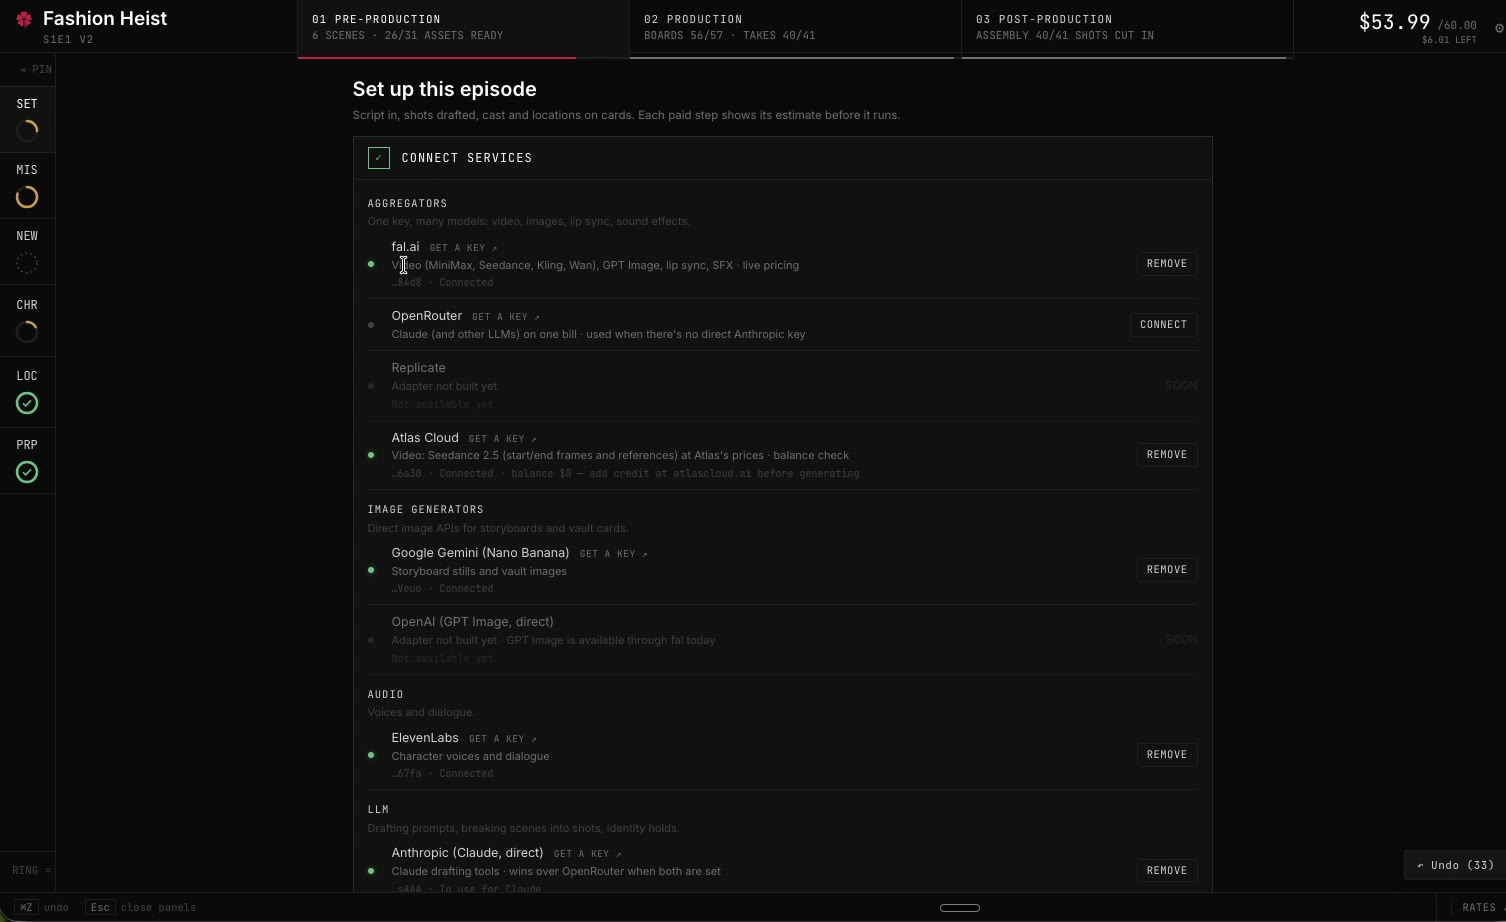
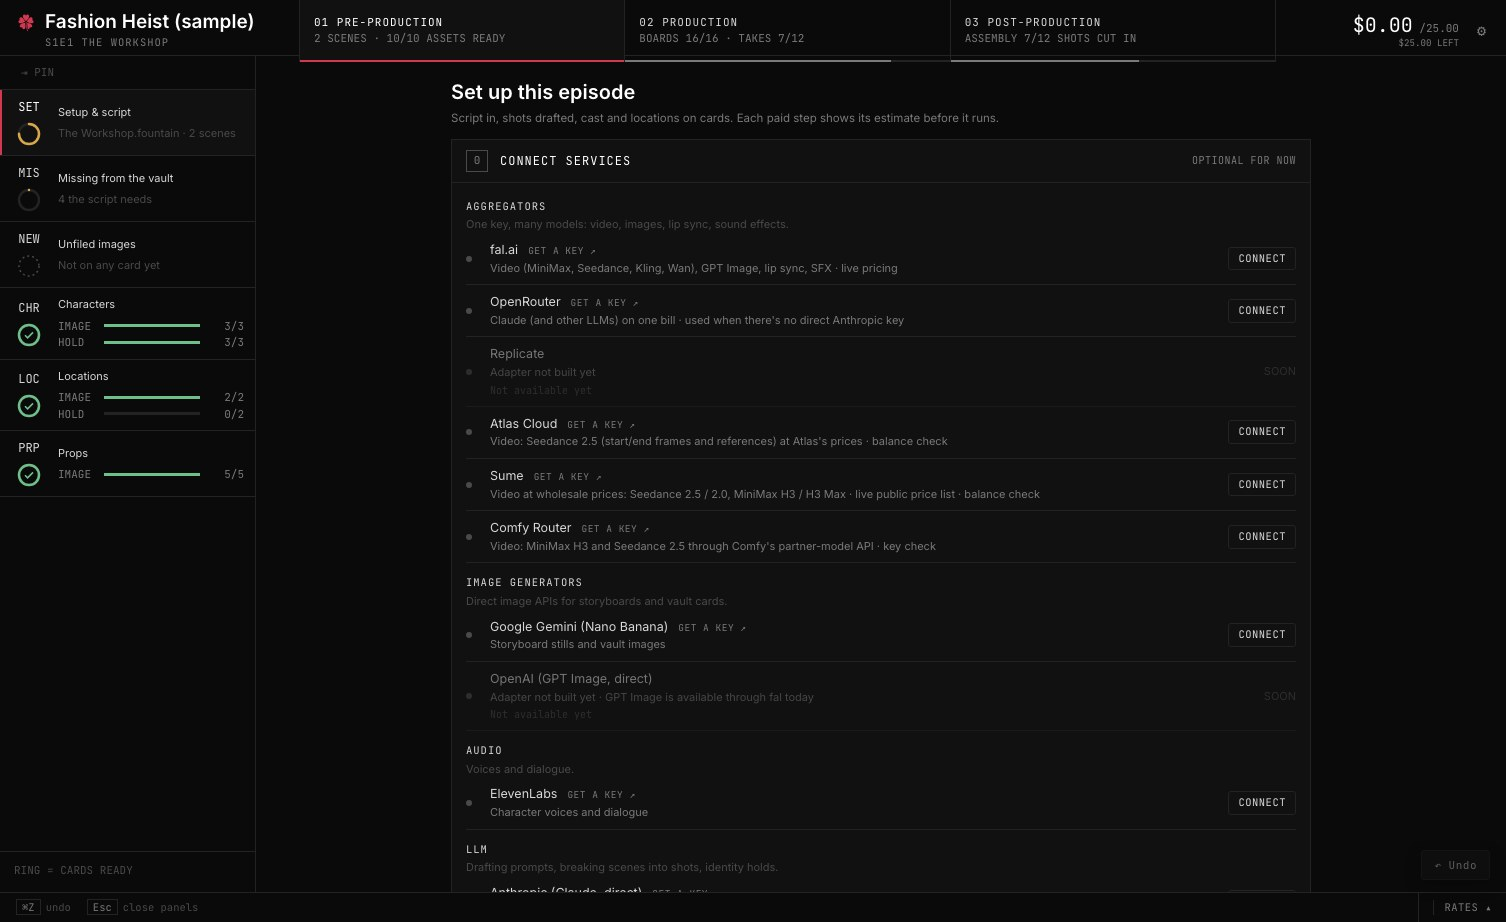
Upscale on Atlas and Sume with a priced service dropdown; Connections screenshot now lists Sume and Comfy

diff --git a/web/app.js b/web/app.js
@@ -3908,7 +3908,7 @@ function lipsyncPanel(v, onClose) {
   modeSel.title = "What to do when the audio and the take differ in length (sync.so's own modes)";
   const driverSel = mk([["fal", "fal (paid)"], ["mock", "mock (free rehearsal)"]]);
   const g = el("div", "grid g2");
-  g.append(labeled("Audio line", audioSel), labeled("Model", modelSel), labeled("If lengths differ", modeSel), labeled("Driver", driverSel));
+  g.append(labeled("Audio line", audioSel), labeled("Model", modelSel), labeled("If lengths differ", modeSel), labeled("Service", driverSel));
   box.append(g);
 
   const info = el("div", "mini"); info.style.margin = "6px 0";
@@ -4006,14 +4006,19 @@ function upscalePanel(v, onClose) {
   const kept = tt ? trimSpans(tt, full) : null;
   const hasTrim = !!kept && kept.length > 0 && !isWholeTake(kept, full);
   const mk = (opts) => { const s = document.createElement("select"); opts.forEach(([val, txt]) => { const o = document.createElement("option"); o.value = val; o.textContent = txt; s.append(o); }); return s; };
+  // One entry per upscale MODEL; the services that sell it (fal, Atlas, Sume) are the Driver
+  // choices, each with its price for this take.
   const models = GRAMMAR.upscaleModels || [];
-  const modelSel = mk(models.map((m) => [m.id, m.label]));
+  const families = models.filter((m, i) => models.findIndex((x) => x.family === m.family) === i);
+  const VIA_UP = { fal: "fal", atlas: "Atlas", sume: "Sume" };
+  const modelSel = mk(families.map((m) => [m.family, m.label]));
   const spanSel = mk(hasTrim
     ? [["trim", `Only the part used in the cut (${+spansDuration(kept).toFixed(2)}s${kept.length > 1 ? `, ${kept.length} pieces joined` : ""})`], ["whole", `The whole take (${+full.toFixed(2)}s)`]]
     : [["whole", `The whole take (${+full.toFixed(2)}s)`]]);
-  const driverSel = mk([["fal", "fal (paid)"], ["mock", "mock (free rehearsal)"]]);
+  const driverSel = mk([]);
+  let routeChosen = false; // once you pick a service by hand, a model change keeps it if it can
   const g = el("div", "grid g2");
-  g.append(labeled("Model", modelSel), labeled("Upscale", spanSel), labeled("To", Object.assign(el("div", "mini"), { textContent: "1080p (matched to the take's shape)" })), labeled("Driver", driverSel));
+  g.append(labeled("Model", modelSel), labeled("Upscale", spanSel), labeled("To", Object.assign(el("div", "mini"), { textContent: "1080p (matched to the take's shape)" })), labeled("Service", driverSel));
   box.append(g);
 
   const note = el("div", "mini"); note.style.margin = "6px 0";
@@ -4028,20 +4033,48 @@ function upscalePanel(v, onClose) {
 
   const refresh = async () => {
     go.disabled = true; quoted = null; info.textContent = "Pricing…";
-    const m = models.find((x) => x.id === modelSel.value);
-    note.textContent = m ? m.note : "";
+    const fam = models.filter((x) => x.family === modelSel.value);
+    const useTrim = spanSel.value === "trim";
     try {
-      quoted = await post("/api/episode/upscale/quote", { dir: EP.dir, versionId: v.id, modelId: modelSel.value, useTrim: spanSel.value === "trim" });
+      const qs = await Promise.all(fam.map((r) => post("/api/episode/upscale/quote", { dir: EP.dir, versionId: v.id, modelId: r.id, useTrim }).catch(() => null)));
+      // Rebuild the service list: cheapest connected first, each with its price.
+      const keep = driverSel.value;
+      const order = fam.map((r, i) => ({ r, q: qs[i], ready: viaReady(r.via) })).sort((a, b) => (b.ready - a.ready) || ((a.q ? a.q.totalUSD : 1e9) - (b.q ? b.q.totalUSD : 1e9)));
+      driverSel.innerHTML = "";
+      order.forEach(({ r, q, ready }) => {
+        const o = document.createElement("option"); o.value = r.id;
+        o.textContent = `${VIA_UP[r.via] || r.via} — ${q ? `$${q.totalUSD.toFixed(q.totalUSD < 1 ? 3 : 2)}${q.confidence === "exact" || q.confidence === "measured" ? "" : " est."}` : "price unavailable"}${ready ? "" : " (not connected)"}`;
+        driverSel.append(o);
+      });
+      const mo = document.createElement("option"); mo.value = "mock"; mo.textContent = "mock (free rehearsal)"; driverSel.append(mo);
+      driverSel.value = routeChosen && [...driverSel.options].some((o) => o.value === keep) ? keep : order[0].r.id;
+      const row = driverSel.value === "mock" ? fam[0] : fam.find((r) => r.id === driverSel.value);
+      quoted = driverSel.value === "mock" ? qs[0] : qs[fam.indexOf(row)];
+      note.textContent = row ? row.note : "";
+      if (!quoted) throw new Error("This route could not be priced.");
       info.textContent = `Priced on ${quoted.seconds}s: $${quoted.totalUSD.toFixed(2)} (${quoted.modelLabel}, ${quoted.confidence}). Watch the result before selecting it.`;
       go.textContent = `Upscale (~$${quoted.totalUSD.toFixed(2)})`;
       go.disabled = false;
     } catch (e) { info.textContent = e.message; }
   };
-  modelSel.onchange = spanSel.onchange = refresh;
+  modelSel.onchange = () => { routeChosen = false; refresh(); };
+  spanSel.onchange = refresh;
+  driverSel.onchange = () => {
+    routeChosen = true;
+    const fam = models.filter((x) => x.family === modelSel.value);
+    const row = fam.find((r) => r.id === driverSel.value) || fam[0];
+    note.textContent = row.note;
+    post("/api/episode/upscale/quote", { dir: EP.dir, versionId: v.id, modelId: row.id, useTrim: spanSel.value === "trim" }).then((q) => {
+      quoted = q;
+      info.textContent = `Priced on ${q.seconds}s: $${q.totalUSD.toFixed(2)} (${q.modelLabel}, ${q.confidence}). Watch the result before selecting it.`;
+      go.textContent = `Upscale (~$${q.totalUSD.toFixed(2)})`;
+    }).catch((e) => { info.textContent = e.message; });
+  };
 
   go.onclick = async () => {
     if (!quoted) return;
     const isMock = driverSel.value === "mock";
+    const modelId = isMock ? models.find((x) => x.family === modelSel.value).id : driverSel.value;
     const msg = `Upscale "${v.modelLabel}" to 1080p?\n\n` +
       `${quoted.modelLabel} · ${quoted.seconds}s · ${isMock ? "MOCK driver — no real spend" : `~$${quoted.totalUSD.toFixed(2)} (charged to this episode's budget)`}\n` +
       `Creates a NEW take; the original is untouched. A paid take can't be undone away.`;
@@ -4049,7 +4082,7 @@ function upscalePanel(v, onClose) {
     go.disabled = true;
     try {
       await post("/api/episode/upscale", {
-        dir: EP.dir, versionId: v.id, modelId: modelSel.value, useTrim: spanSel.value === "trim", driver: driverSel.value,
+        dir: EP.dir, versionId: v.id, modelId, useTrim: spanSel.value === "trim", driver: isMock ? "mock" : undefined,
         confirmedUSD: quoted.needsConfirmation ? quoted.totalUSD : undefined,
       });
       flashNote("Upscale queued — the new take appears in the Version tray when it finishes (a few minutes; SeedVR2 takes longer).");

diff --git a/server/rates.js b/server/rates.js
@@ -672,6 +672,7 @@ export const UPSCALE_MODELS = [
     id: "fal-ai/seedvr/upscale/video",
     short: "SeedVR2", // model code in take file names
     label: "SeedVR2 (sharpest)",
+    family: "seedvr", via: "fal",
     driver: "fal",
     billing: "megapixel",
     usdPerMegapixel: 0.001,
@@ -682,11 +683,53 @@ export const UPSCALE_MODELS = [
     id: "fal-ai/bytedance-upscaler/upscale/video",
     short: "BDUp", // model code in take file names
     label: "Bytedance (fast, cheap)",
+    family: "bdup", via: "fal",
     driver: "fal",
     billing: "second",
     usdPerSecond: 0.0072,
     confidence: "exact",
     note: "Cleaner but smoother and softer. About 3 minutes for 11 s. Standard tier, AI-video preset.",
+  },
+  // The same Bytedance upscaler, sold by Atlas Cloud (Atlas's readme, read 2026-10-23):
+  // $0.00344333 per second x 2 for 1080p, x 1 at 30 fps or less (we send the take's rate,
+  // capped at 30) = $0.0069 per second, a touch under fal's $0.0072. Not yet billed.
+  {
+    id: "atlas:byteplus/video/upscaler",
+    short: "BDUpAtl",
+    label: "Bytedance (fast, cheap)",
+    family: "bdup", via: "atlas",
+    driver: "atlas",
+    billing: "second",
+    usdPerSecond: 0.0069,
+    confidence: "estimated",
+    note: "Cleaner but smoother and softer. The same Bytedance upscaler as the fal row, through Atlas Cloud. Standard engine, AI-video scene.",
+  },
+  // Atlas's own upscaler (FlashVSR-priced): 1080p $0.018 per second, 5 s minimum, input
+  // 30 fps or less and 53 s at most. A different model from the two above: untested here.
+  {
+    id: "atlas:atlascloud/video-upscaler",
+    short: "AtlUp",
+    label: "Atlas Video Upscaler",
+    family: "atlasup", via: "atlas",
+    driver: "atlas",
+    billing: "second",
+    usdPerSecond: 0.018,
+    minSeconds: 5,
+    confidence: "exact",
+    note: "Atlas Cloud's own upscaler, 1080p, source timing kept. Input must be 30 fps or less and at most 53 s; billed from 5 s. Not yet compared with SeedVR2 on your footage.",
+  },
+  // Topaz Video on Sume (catalog read 2026-10-23): 1080p $0.04 per second, billed double
+  // above 30 fps or when no frame rate is sent (we send the take's, capped at 30).
+  {
+    id: "sume:topaz-video",
+    short: "Topaz",
+    label: "Topaz Video",
+    family: "topaz", via: "sume",
+    driver: "sume",
+    billing: "second",
+    usdPerSecond: 0.04,
+    confidence: "estimated",
+    note: "Topaz's video upscaler (Proteus model) through Sume. A different model from the others and the priciest per second; not yet compared on your footage.",
   },
 ];
 const UPSCALE_BY_ID = new Map(UPSCALE_MODELS.map((m) => [m.id, m]));
@@ -709,7 +752,7 @@ export function estimateUpscaleUSD(modelId, { seconds, fps = 24, target = "1080p
   if (!m) throw Object.assign(new Error(`unknown upscale model "${modelId}" — check rates.js UPSCALE_MODELS`), { status: 400 });
   const n = Number(seconds);
   if (!Number.isFinite(n) || n <= 0) throw Object.assign(new Error(`invalid duration ${JSON.stringify(seconds)}`), { status: 400 });
-  if (m.billing === "second") return { usd: m.usdPerSecond * n, confidence: m.confidence, rate: m.usdPerSecond };
+  if (m.billing === "second") return { usd: m.usdPerSecond * Math.max(n, m.minSeconds || 0), confidence: m.confidence, rate: m.usdPerSecond };
   // Ceiling: a 16:9 frame at the target's short edge, at the take's frame rate.
   const f = Number(fps) || 24;
   const size = upscaleOutputSize(9, 16, target);

diff --git a/server/jobs.js b/server/jobs.js
@@ -19,7 +19,7 @@
 import path from "node:path";
 import fs from "node:fs/promises";
 import * as store from "./store.js";
-import { estimateVideoUSD, videoModel, estimateImageUSD, imageModel, estimateLipsyncUSD, lipsyncModel, LIPSYNC_SYNC_MODES, modelShort, referenceUSD, refVideoUSD, cheapestRoute, upscaleModel, estimateUpscaleUSD, UPSCALE_TARGETS, finishModel, estimateFinishUSD, FINISH_MODELS } from "./rates.js";
+import { estimateVideoUSD, videoModel, estimateImageUSD, imageModel, estimateLipsyncUSD, lipsyncModel, LIPSYNC_SYNC_MODES, modelShort, referenceUSD, refVideoUSD, cheapestRoute, upscaleModel, estimateUpscaleUSD, UPSCALE_TARGETS, finishModel, estimateFinishUSD, FINISH_MODELS, VIAS } from "./rates.js";
 import { probe } from "./ffprobe.js";
 import { trimmedCopy, normalizeUpscaled } from "./upscale.js";
 import { trimSpans, spansDuration, isWholeTake } from "../shared/trim.js";
@@ -672,8 +672,10 @@ export function quoteUpscale(ep, opts) {
 }
 
 function commitUpscale(ep, opts) {
-  const { driver = "fal", confirmedUSD } = opts;
+  const { confirmedUSD } = opts;
   const { shot, take, model, target, spans, seconds } = upscaleInputs(ep, opts);
+  // The model row IS the route (fal, Atlas or Sume); only "mock" overrides it.
+  const driver = opts.driver === "mock" ? "mock" : (model.driver || "fal");
   const q = quoteUpscale(ep, opts);
   enforceSpendGuards(q, confirmedUSD);
 
@@ -692,7 +694,7 @@ function commitUpscale(ep, opts) {
     spans,                          // the kept pieces [{ inSec, outSec }]; null = the whole take
     target,
     modelId: model.id,
-    modelLabel: `Upscale ${target} (${model.label}) — ${take.modelLabel || "take"}`,
+    modelLabel: `Upscale ${target} (${model.label}${model.via && model.via !== "fal" ? ` · ${VIAS[model.via] || model.via}` : ""}) — ${take.modelLabel || "take"}`,
     driver,
     seconds,
     keyframePath: null,
@@ -1088,13 +1090,13 @@ async function runVersion({ dir, versionId, reattach = false }) {
     } else if (version.op === "upscale") {
       if (typeof d.generateUpscale !== "function") throw new Error(`driver "${version.driver}" can't upscale`);
       const srcAbs = store.safeResolve(version.sourcePath);
-      let fps = 24;
-      try { fps = (await probe(srcAbs)).fps || 24; } catch { /* the quote's 24 fps stands */ }
+      let fps = 24, sourceShort = null;
+      try { const pr = await probe(srcAbs); fps = pr.fps || 24; sourceShort = Math.min(pr.width || 0, pr.height || 0) || null; } catch { /* the quote's 24 fps stands */ }
       let sendPath = srcAbs, tmp = null;
       // Only the part used in the cut is sent (and paid for).
       if (version.spans && version.driver !== "mock") tmp = sendPath = await trimmedCopy(srcAbs, version.spans);
       try {
-        sub = await d.generateUpscale({ videoPath: sendPath, modelId: version.modelId, target: version.target, fps });
+        sub = await d.generateUpscale({ videoPath: sendPath, modelId: version.modelId, target: version.target, fps, seconds: version.seconds, sourceShort });
       } finally {
         if (tmp) await fs.rm(tmp, { force: true });
       }

diff --git a/server/drivers/sume.js b/server/drivers/sume.js
@@ -124,6 +124,34 @@ export class SumeDriver extends BaseDriver {
     return { jobId: id, statusUrl: d.status_url || `${this.base}/v1/jobs/${id}/status`, responseUrl: d.result_url || `${this.base}/v1/jobs/${id}/result`, ...uploaded };
   }
 
+  // Upscale a finished clip with Topaz Video (video-router, video_url + upscale{}).
+  // Sume wants the clip's length in whole seconds and bills double when no frame rate
+  // is sent or it is above 30, so the take's rate goes in, capped at 30. The factor
+  // reaches the target from the source's short edge; the app's conform step then
+  // sets the exact size.
+  async generateUpscale({ videoPath, modelId, target = "1080p", fps = 24, seconds, sourceShort }) {
+    if (!this.key) throw new Error("SUME_API_KEY not set");
+    if (!String(modelId).includes("topaz-video")) throw new Error(`no Sume request mapping for upscale model "${modelId}"`);
+    const videoUrl = await this.uploadFile(videoPath);
+    const want = Number(String(target).replace(/p$/i, "")) || 1080;
+    const factor = Math.min(4, Math.max(1, Math.ceil(want / (Number(sourceShort) || 480))));
+    const body = {
+      model: "topaz-video", video_url: videoUrl, resolution: target,
+      duration: Math.max(2, Math.ceil(Number(seconds) || 2)), mode: "async",
+      upscale: { factor, fps: Math.min(30, Math.max(16, Math.round(Number(fps) || 24))) },
+    };
+    const res = await this.fetch(`${this.base}/v1/video-router/generate`, {
+      method: "POST",
+      headers: this.headers({ "content-type": "application/json", "idempotency-key": crypto.randomUUID() }),
+      body: JSON.stringify(body),
+    });
+    if (!res.ok) throw new Error(`Sume upscale failed: ${res.status} ${await res.text()}`);
+    const d = (await res.json()).data || {};
+    const id = d.job && d.job.id;
+    if (!id) throw new Error(`Sume upscale returned no job id: ${JSON.stringify(d).slice(0, 300)}`);
+    return { jobId: id, statusUrl: d.status_url || `${this.base}/v1/jobs/${id}/status`, responseUrl: d.result_url || `${this.base}/v1/jobs/${id}/result` };
+  }
+
   // Sume cancels only before the provider has started (409 afterwards).
   async cancelJob({ jobId }) {
     const res = await this.fetch(`${this.base}/v1/jobs/${jobId}/cancel`, { method: "POST", headers: this.headers() });

diff --git a/server/drivers/atlas.js b/server/drivers/atlas.js
@@ -115,6 +115,27 @@ export class AtlasDriver extends BaseDriver {
     return { jobId: id, statusUrl: `${this.base}/model/prediction/${id}`, responseUrl: null, ...uploaded };
   }
 
+  // Upscale a finished clip (Atlas's own and BytePlus's video upscalers). The clip is
+  // uploaded like any other input. fps is sent so BytePlus bills the 30 fps tier.
+  async generateUpscale({ videoPath, modelId, target = "1080p", fps = 24 }) {
+    if (!this.key) throw new Error("ATLAS_API_KEY not set");
+    const videoUrl = await this.uploadFile(videoPath);
+    let body;
+    if (modelId.includes("byteplus/video/upscaler")) {
+      body = { model: "byteplus/video/upscaler", video_url: videoUrl, tool_version: "standard", scene: "aigc", resolution: target, bitrate_level: "high", fps: Math.min(30, Math.max(15, Math.round(Number(fps) || 24))) };
+    } else if (modelId.includes("atlascloud/video-upscaler")) {
+      body = { model: "atlascloud/video-upscaler", video: videoUrl, target_resolution: target };
+    } else {
+      throw new Error(`no Atlas request mapping for upscale model "${modelId}"`);
+    }
+    const res = await this.fetch(`${this.base}/model/generateVideo`, { method: "POST", headers: this.headers({ "content-type": "application/json" }), body: JSON.stringify(body) });
+    if (!res.ok) throw new Error(`Atlas upscale failed: ${res.status} ${await res.text()}`);
+    const out = await res.json();
+    const id = out && out.data && out.data.id;
+    if (!id) throw new Error(`Atlas upscale returned no prediction id: ${JSON.stringify(out).slice(0, 300)}`);
+    return { jobId: id, statusUrl: `${this.base}/model/prediction/${id}`, responseUrl: null };
+  }
+
   // Finish a draft at 1080p: only the draft's id is sent. Atlas's finish
   // inherits the draft's prompt, inputs, duration, ratio, seed and audio.
   async generateFinish({ draftId, modelId }) {

diff --git a/server/index.js b/server/index.js
@@ -1024,7 +1024,7 @@ r.post("/api/episode/upscale", async ({ body }) =>
     modelId: body.modelId,
     target: body.target || "1080p",
     useTrim: body.useTrim !== false,
-    driver: body.driver || "fal",
+    driver: body.driver, // undefined = the model row's own service
     confirmedUSD: body.confirmedUSD,
   }));
 

diff --git a/README.md b/README.md
@@ -110,7 +110,7 @@ cap yourself.
 **Draft, then finish.** On Atlas, Seedance 2.5 can make a 480p *draft* (measured: $0.134 per second) so you
 can check that a move works. **Finish at 1080p** then re-renders that same draft at full quality. That finish is
 expensive: Atlas quoted $6.53 for an 11 s draft (about $0.59 per second, an estimate until one is billed), several
-times the draft. Upscaling the draft instead costs about $0.05 per second, so compare before you finish. Faces and
+times the draft. Upscaling the draft instead costs about $0.05 per second (SeedVR2 on fal; the Bytedance upscaler is also on Atlas, Atlas has its own upscaler, and Topaz is on Sume), so compare before you finish. Faces and
 small detail are re-rendered by a finish, so check the result.
 
 **Sound on or off.** On Seedance rows that have it (Atlas, and Comfy), a **Sound On | Off** switch turns the model's
